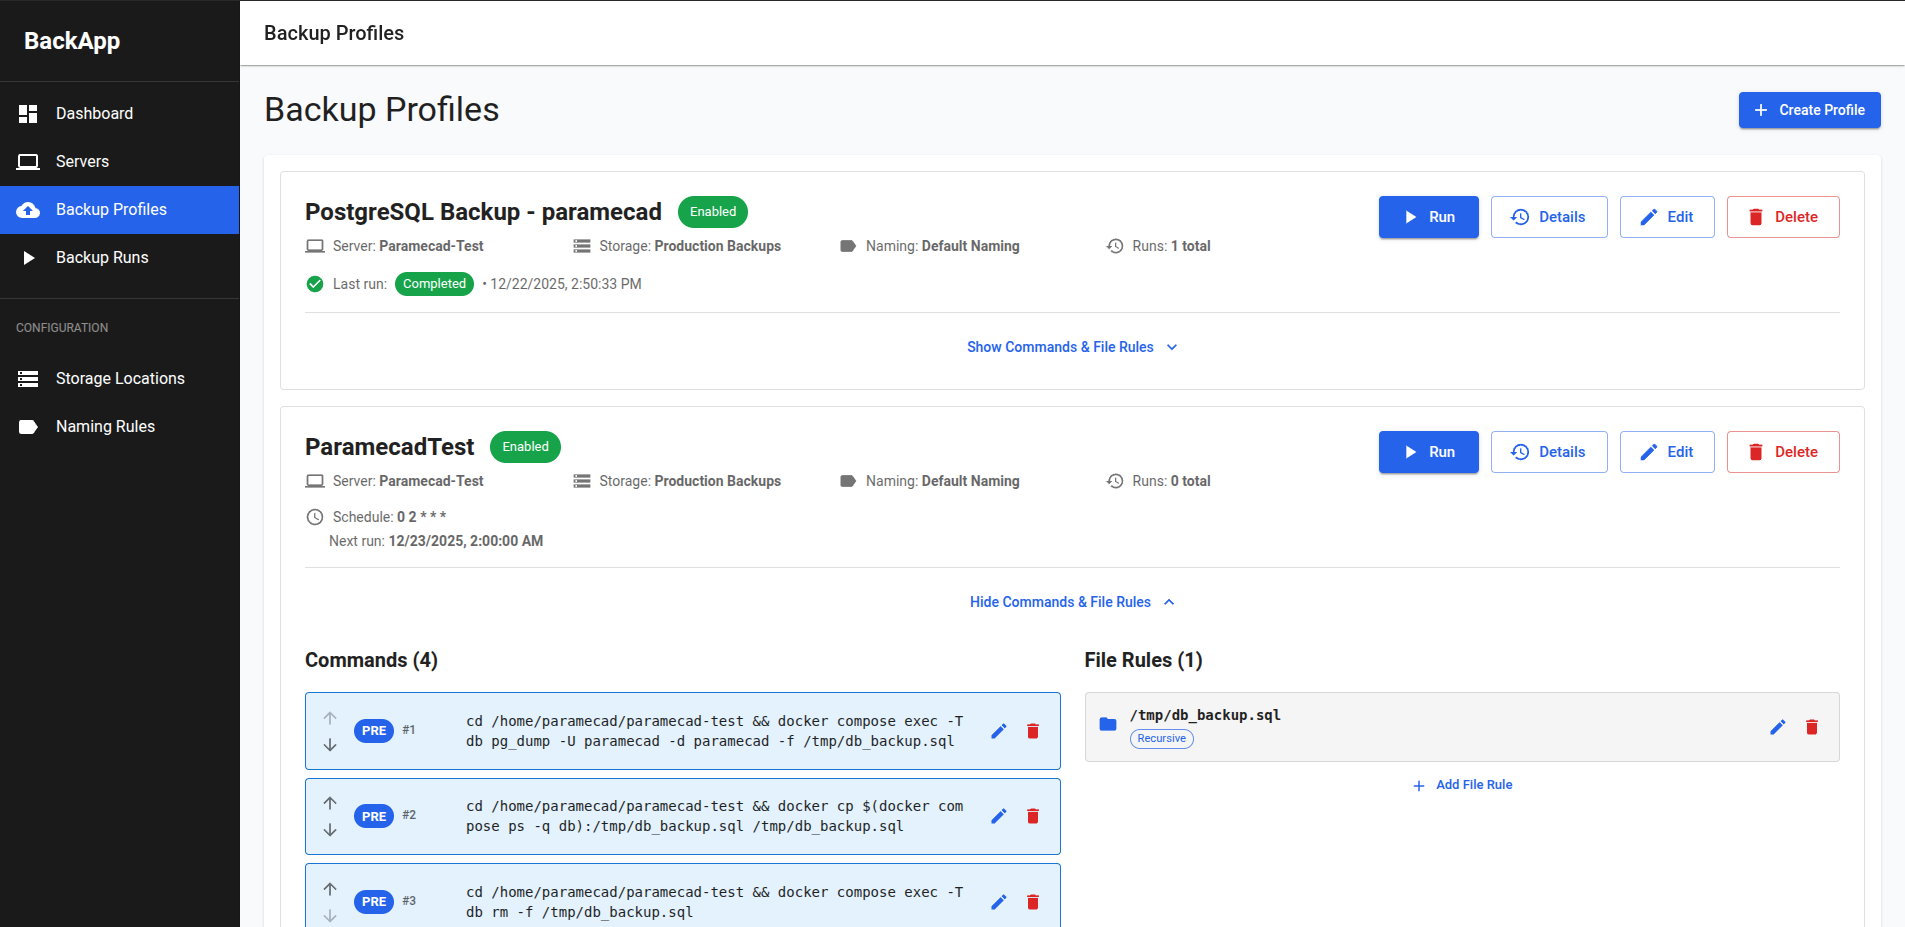
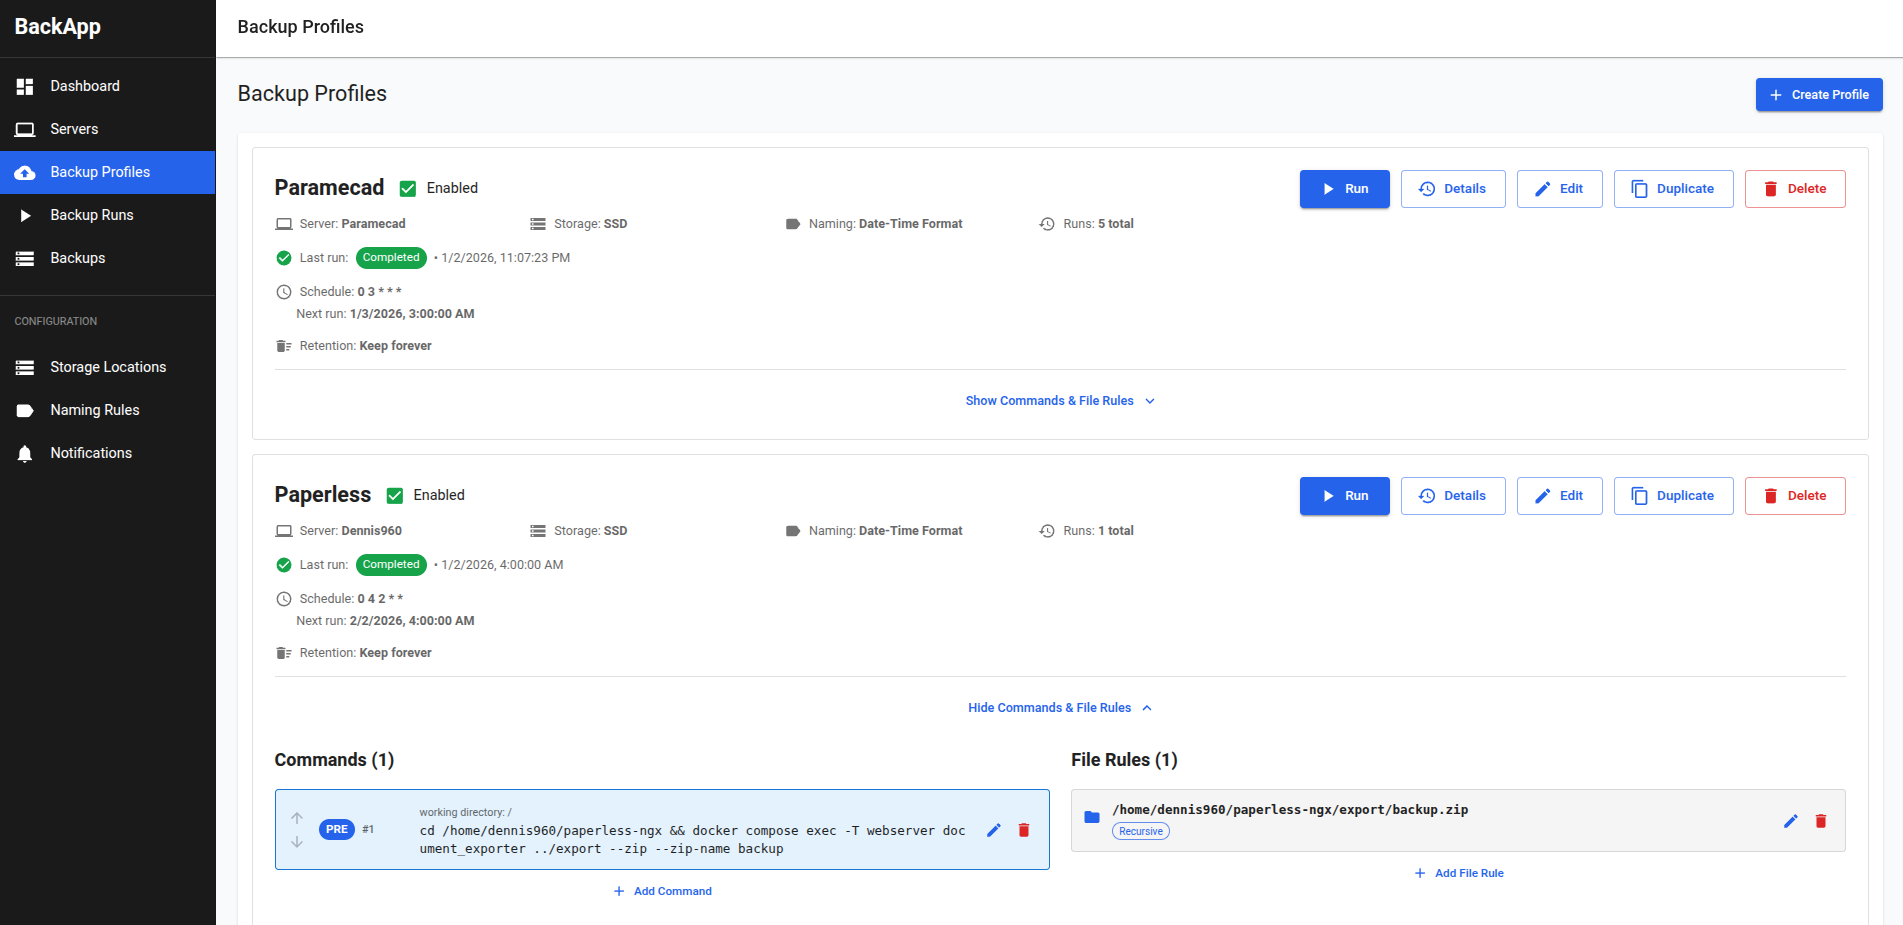
Update Readme and screenshots

diff --git a/README.md b/README.md
@@ -1,15 +1,14 @@
 # BackApp
 BackApp is a Go + React application that lets automatically schedule and inspect backups of remote servers via SSH.
 
-It is a very lightweight server (~50 MB) that runs locally (or on a dedicated machine) and provides a web interface to manage backup profiles.
+It is a very lightweight server (< 50 MB) that runs locally (or on a dedicated machine) and provides a web interface to manage backup profiles.
 
+![Dashboard.png](./ScreenshotDashboard.png)
 ![Backup Profiles](./ScreenshotBackupProfiles.png)
 ![Backup Runs](./ScreenshotBackupRuns.png)
 ![Backup Run Detail](./ScreenshotBackupRunDetail.png)
 
-> <span style="color: #FFD700">⚠ **Warning:** Commands, file paths and any variable you enter might not be escaped and will be injected in commands as is. Always check commands and file paths to not contain special characters such as `'`, `"`, `\`, `/` and so on.</span>
-
-> <span style="color: #FFD700">⚠ **Warning:** Any text you enter in the ui will be saved in plaintext. If you enter passwords or secrets, unlike with the github workflows, they will be displayed in the logs in plaintext.</span>
+> <span style="color: #FFD700">⚠ **Warning:** Any text you enter in the ui will be saved in plaintext. If you enter passwords or secrets, they will be displayed in the logs in plaintext and stored in the database locally in plaintext. Make sure only you have access to the web interface and the machine running BackApp.</span>
 
 ## Features
 - Add multiple remote servers via SSH using password or key authentication.
@@ -46,11 +45,23 @@ Examples:
 
 ## Quick start
 
-### Native binary (recommended for smaller setups)
+### Native binary (recommended)
 - Download the latest release for your platform.
 
 - Run the binary, then open your browser to `http://localhost:8080`.
 In case 8080 is in use, set a different port with `-port=9090`.
+
+- In the web interface, create a *Server* which represents the remote server you want to back up.
+  - Provide the SSH connection details (hostname, port, username, authentication method).
+- Next, create a *Backup Profile*.
+  - Select the server you just created.
+  - Define the storage location on your local machine where backups will be stored.
+  - Set up the naming rule for the backup folders.
+  - Optionally, add pre- and post-backup commands to run on the remote server.
+  - Define file rules to include/exclude specific paths in the backup.
+  - Set the schedule for automatic backups using a cron expression.
+- Save the backup profile and trigger a manual backup run to test it.
+- Monitor the backup run in the web interface and view detailed logs.
 
 ### Using Docker or Docker Compose
 - Pull the latest image from GitHub Container Registry:
